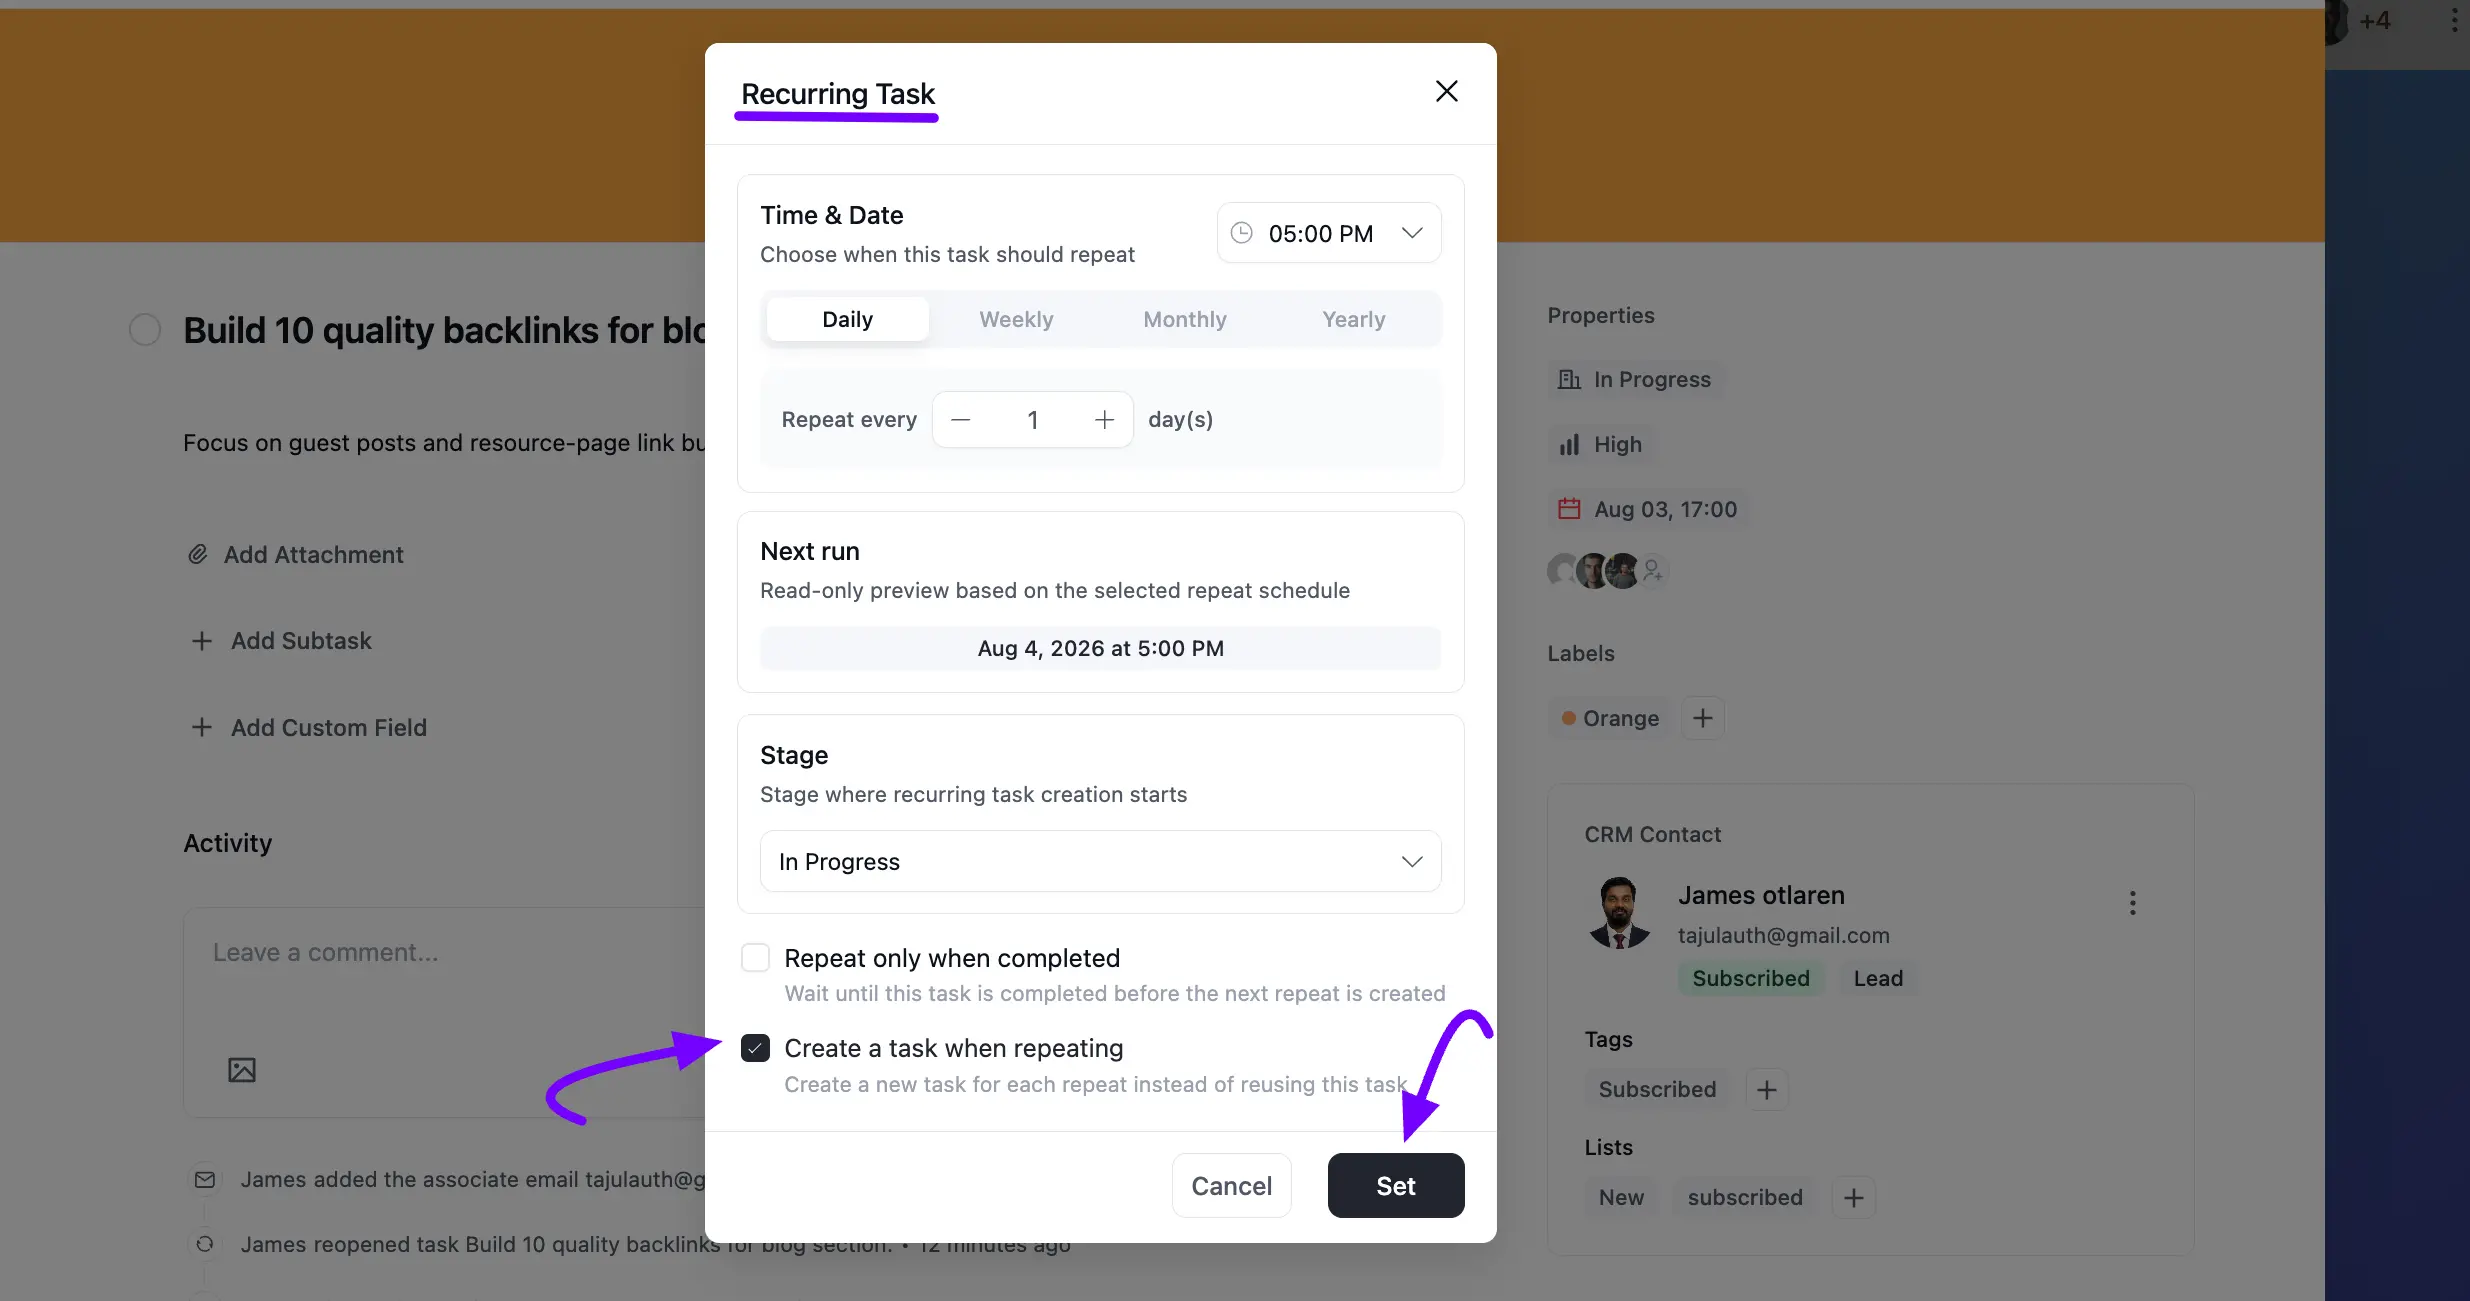
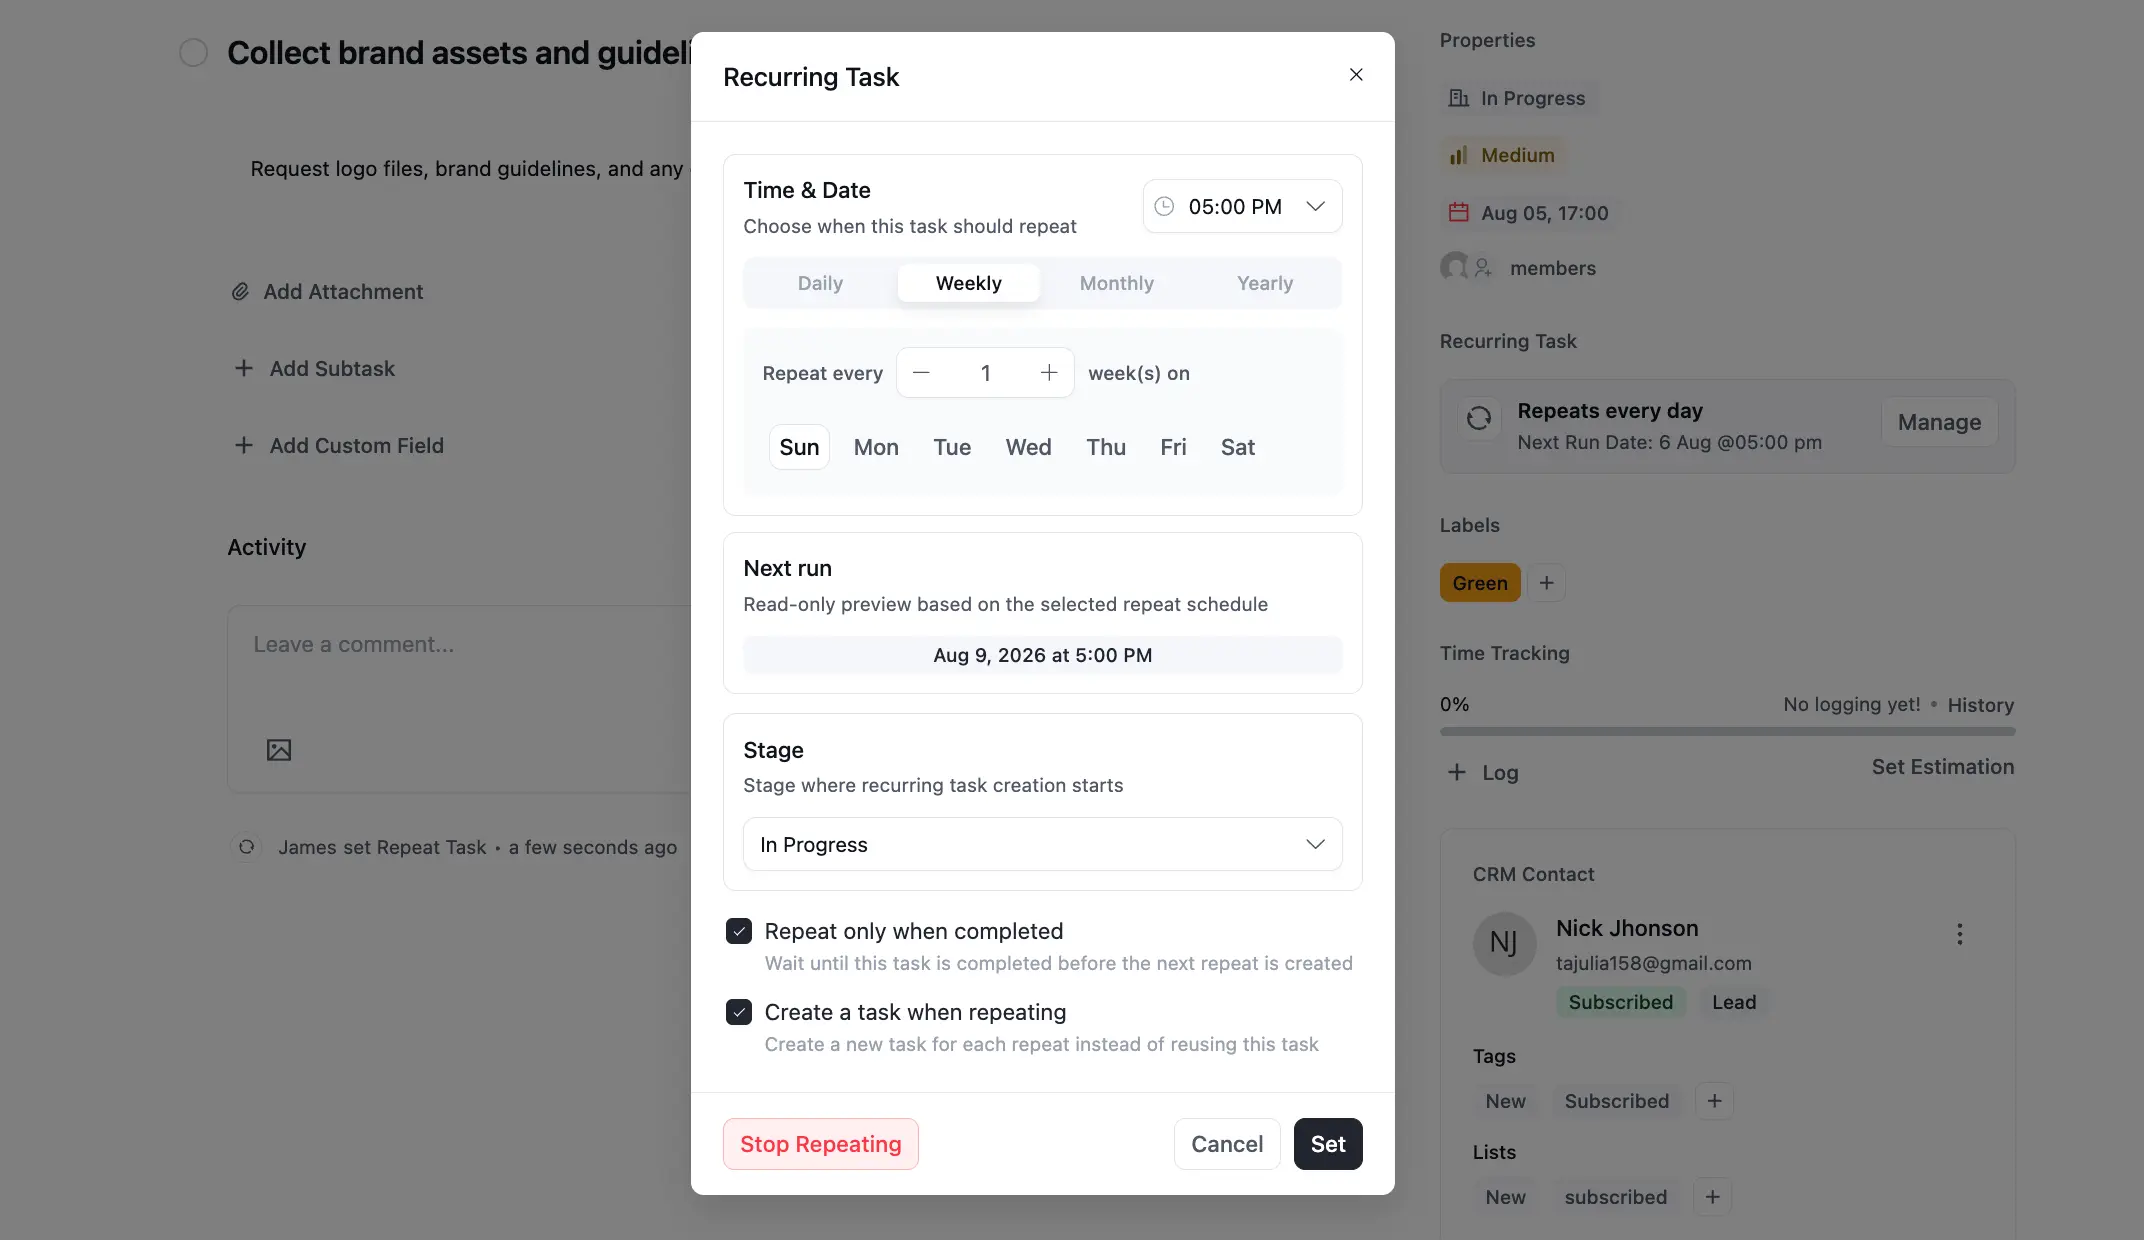
update Recurring Tasks docs image and description

diff --git a/docs/tasks/recurring-task.md b/docs/tasks/recurring-task.md
@@ -4,7 +4,7 @@ description: "Set up recurring tasks in FluentBoards so daily, weekly, monthly, 
 
 # Recurring Tasks
 
-A **Recurring Task** is a task that repeats at regular intervals (daily, weekly, monthly, and yearly.). Once the set interval is reached, FluentBoards will automatically recreate the task for you. No more manual task creation for recurring work!
+A **Recurring Task** is a task that repeats at regular intervals (daily, weekly, monthly, or yearly). Once the set interval is reached, FluentBoards will automatically recreate the task for you. No more manual task creation for recurring work!
 
 In this guideline, we will show you how you can enable and set a Recurring Task.
 
@@ -37,7 +37,11 @@ A **Recurring Task** pop-up will appear. Under **Time & Date**, pick the time yo
 - **Monthly**: The task repeats every set number of months.
 - **Yearly**: The task repeats every set number of years.
 
-Use the **Repeat every** field to set the interval, for example, every **1 day(s)** or every **2 week(s)**. The **Next run** box below shows a read-only preview of exactly when the next repeat will happen, based on your settings.
+Use the **Repeat every** field to set the interval, for example, every **1 day(s)** or every **2 week(s)**. Click the **Plus** or **Minus** button to change the number.
+
+With **Weekly** selected, you will also see the days of the week (**Sun** to **Sat**). Pick the days you want the task to repeat on.
+
+The **Next run** box below shows a read-only preview of exactly when the next repeat will happen, based on your settings.
 
 Under **Stage**, choose which stage the recreated task should start in.
 
@@ -49,6 +53,21 @@ Finally, choose how the repeat should behave:
 Once you're done, click the **Set** button to save your recurring schedule.
 
 ![FluentBoards Recurring Task](../public/images/task-management/recurring-task/recuring-task-4.webp)
+
+### Check or Stop a Recurring Schedule
+
+Once you set a schedule, a **Recurring Task** card appears in the task's details. Here you will see a summary such as **Repeats every 2 weeks** and the **Next Run Date**.
+
+To change the schedule, click the **Manage** button on this card. The **Recurring Task** pop-up opens again. To end the schedule, click the **Stop Repeating** button.
+
+## Find Your Recurring Tasks
+
+Want to see only the tasks that repeat? Click the **Filter** icon at the top right of your board. Under **Task**, check the **Recurring** box. Your board now shows just your recurring tasks. Uncheck it to see everything again.
+
+> [!Note]
+> The **Recurring** filter only appears when the Recurring Task module is turned on.
+
+![FluentBoards Recurring Task](../public/images/task-management/recurring-task/recurring-task-11.webp)
 
 ### Examples & Use Cases
 
